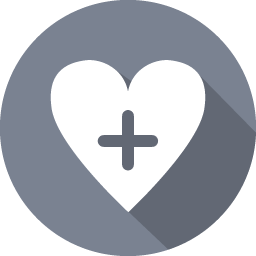
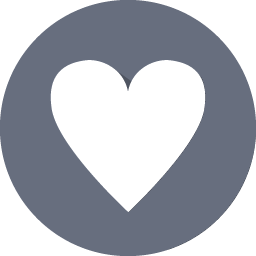
likes can be removed and are persisted via ajax delete

Changed region(s): [[0.375, 0.4062, 0.625, 0.6875]]

diff --git a/app/assets/javascripts/comments.js b/app/assets/javascripts/comments.js
@@ -4,6 +4,7 @@ $(document).ready(function(){
   var $charCount = $('#comment-char-count');
   var $addCommentButton = $('#add-comment-button');
   var $favoriteButton = $('.comment-favorite');
+  var $deleteFavorite = $('.unlike');
 
   $charCount.html(maxLength);
 
@@ -28,7 +29,7 @@ $(document).ready(function(){
       $(this).find('.comment-favorite').hide();
     } else {
       $(this).find('.comment-favorite').show();
-      $(this).find('#unlike').hide();
+      $(this).find('.unlike').hide();
     }
   });
 
@@ -39,10 +40,8 @@ $(document).ready(function(){
     var likes = parseInt( $likeCount.html() );
     $likeCount.html(likes + 1);
 
-    $(this).parents('li').find('#unlike').show();
+    $(this).parents('li').find('.unlike').show();
     $(this).parents('li').find('.comment-favorite').hide();
-
-    $(this).prop("disabled", true);
 
     var commentID = $(this).parents('.card').attr('data-id');
     var memorialID = $(this).parents('.card').attr('data-memorial-id');
@@ -54,6 +53,26 @@ $(document).ready(function(){
         id: commentID,
         memorial_id: memorialID
       },
+      success: function(){}
+    });
+  });
+
+  $deleteFavorite.bind('click', function(e){
+    e.preventDefault();
+
+    var $likeCount = $(this).parents('.card').find('.like-count');
+    var likes = parseInt( $likeCount.html() );
+    $likeCount.html(likes - 1);
+
+    $(this).parents('li').find('.unlike').hide();
+    $(this).parents('li').find('.comment-favorite').show();
+
+    var commentID = $(this).parents('.card').attr('data-id');
+    var memorialID = $(this).parents('.card').attr('data-memorial-id');
+
+    $.ajax({
+      type: "DELETE",
+      url: "/likes/" + commentID,
       success: function(){}
     });
   });

diff --git a/app/assets/stylesheets/memorials.css.scss b/app/assets/stylesheets/memorials.css.scss
@@ -30,8 +30,13 @@
 }
 
 .comment-favorite {
-  height: 1.2em;
-  width: 1.2em;
+  height: 1em;
+  width: 1em;
+}
+
+.unlike {
+  height: 1em;
+  width: 1em;
 }
 
 //CARD REFILL BEGINNING
@@ -113,11 +118,11 @@
       display: inline;
       color: $card-stats-color;
       font-weight: 800;
-      font-size: 1.2em;
+      font-size: 1em;
       float: left;
       border-right: 1px solid transparentize($base-font-color, .8);
-      line-height: 1.1em;
-      padding: 0 .7em 0 .7em;
+      line-height: 0.9em;
+      padding: 0 .5em 0 .5em;
 
       &:first-child {
         padding-left: 0;
@@ -131,7 +136,7 @@
         color: $medium-gray;
         font-size: .7em;
 //        display: block;
-        font-weight: normal;
+        font-weight: light;
         &:hover {
           color: $dark-gray;
         }

diff --git a/app/controllers/likes_controller.rb b/app/controllers/likes_controller.rb
@@ -9,4 +9,10 @@ class LikesController < ApplicationController
       render nothing: true
     end
   end
+
+  def destroy
+    like = Like.where(user_id: current_user.id, comment_id: params[:id])
+    like.destroy_all
+    render nothing: true
+  end
 end
